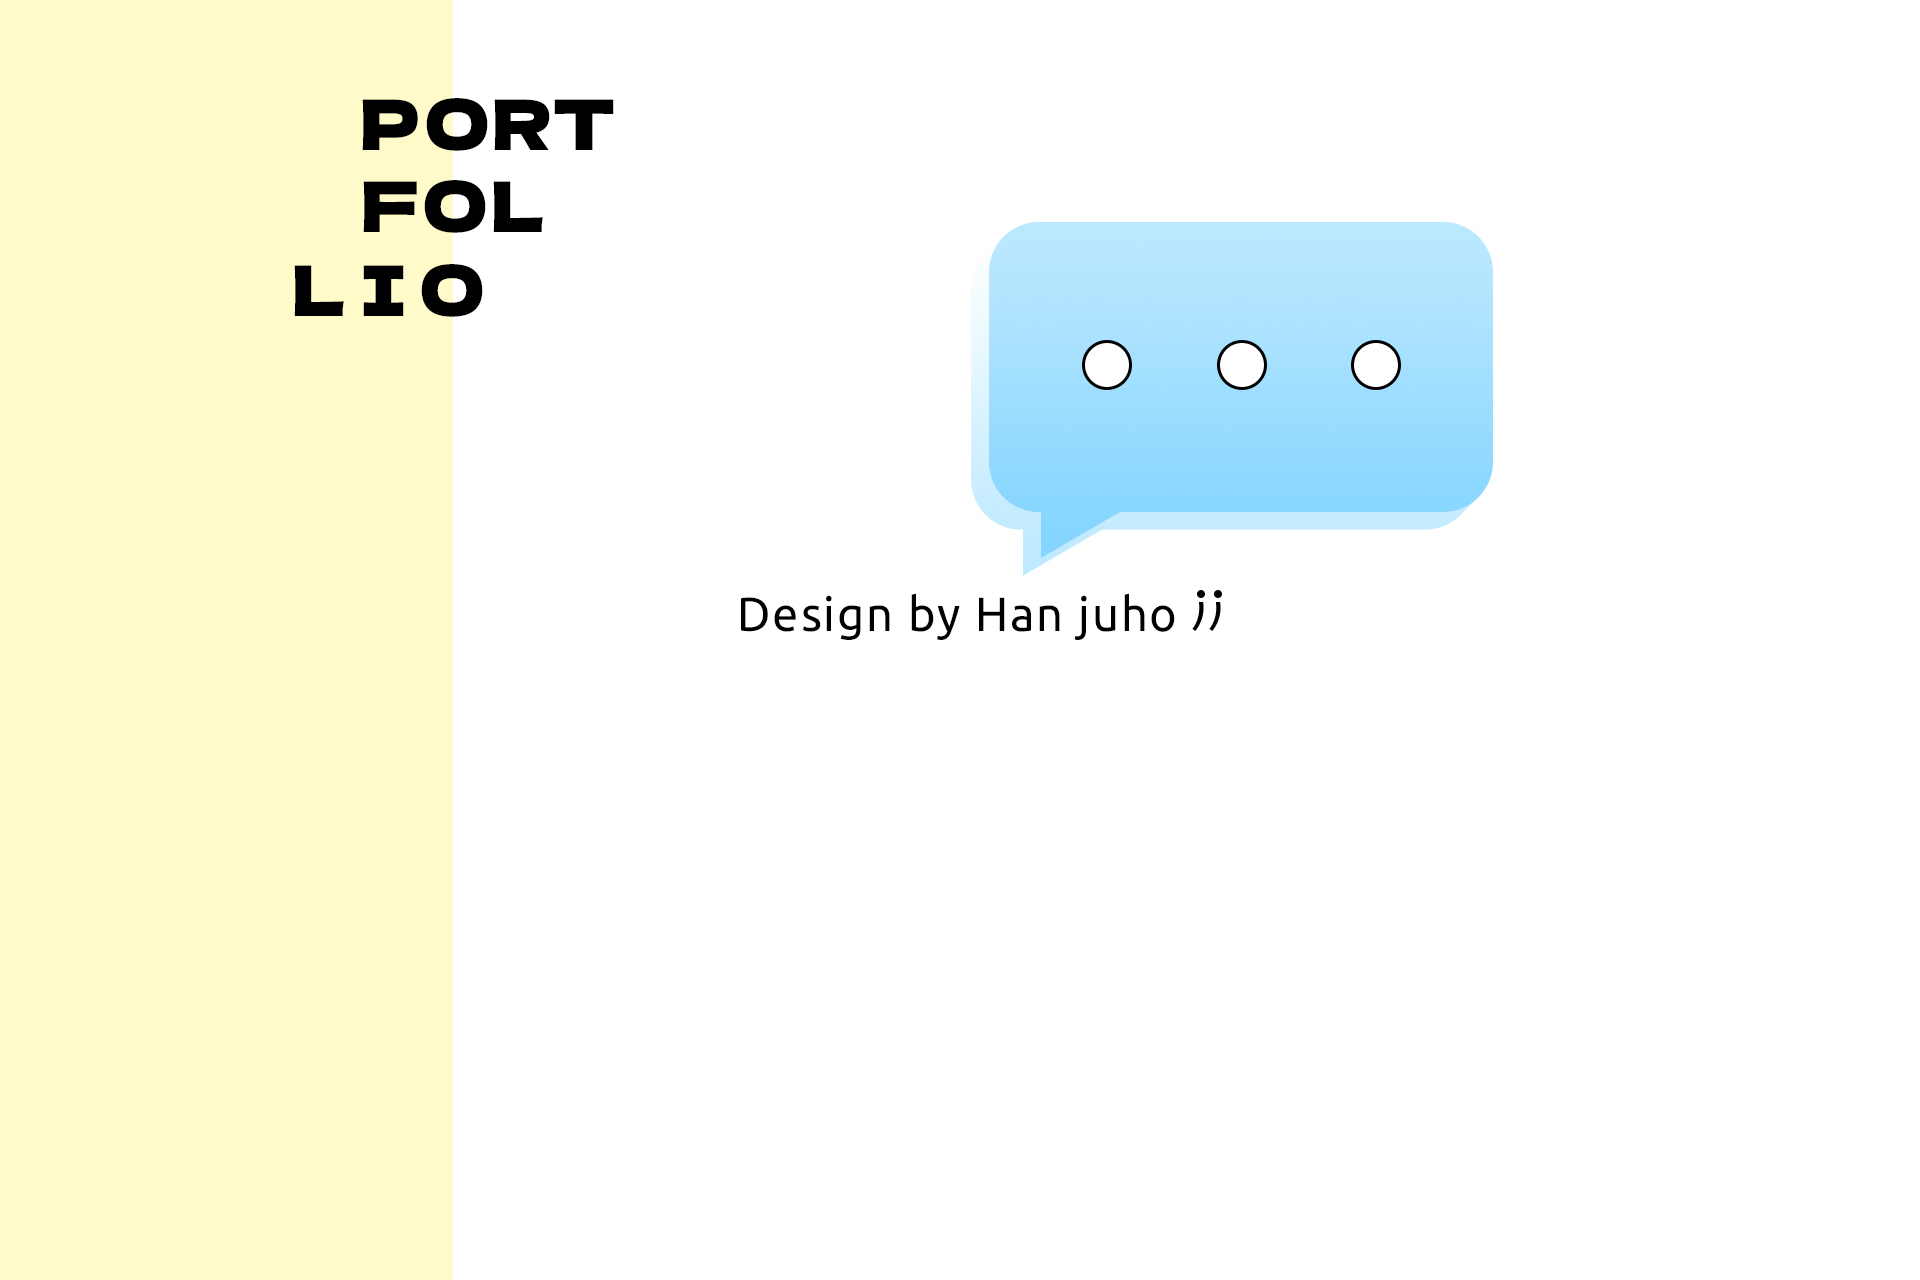
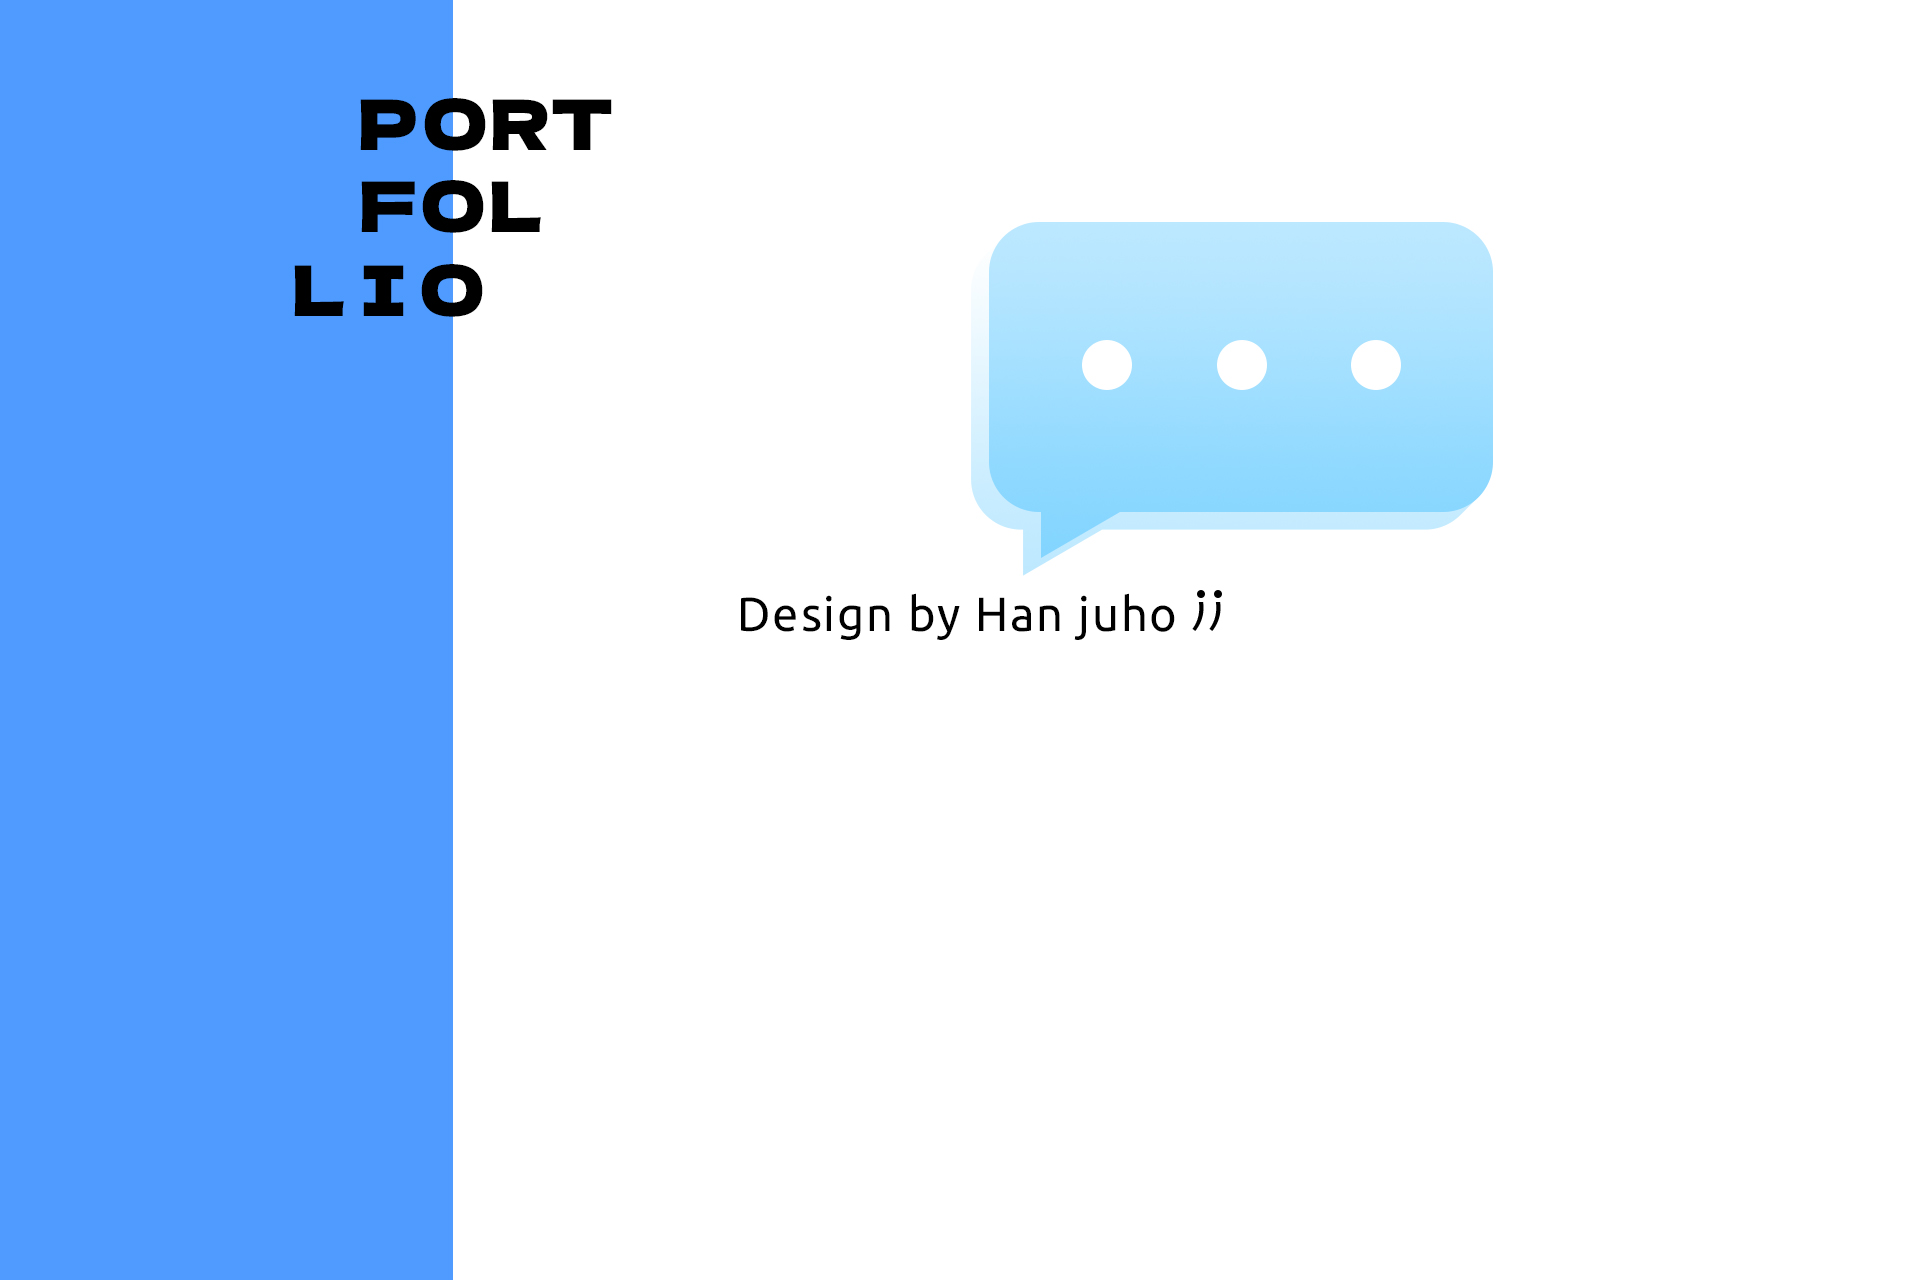
Add files via upload

Changed region(s): [[0.0, 0.0, 0.3125, 1.0], [0.5625, 0.25, 0.5938, 0.3125]]

diff --git a/index.html b/index.html
@@ -41,9 +41,10 @@
         <nav>
             <ul>
                 <li><a href="#about">About</a></li>
+                <li><a href="#projects">projects</a></li>
                 <li><a href="#experience">experience</a></li>
                 <li><a href="#skills">skills</a></li>
-                <li><a href="#projects">projects</a></li>
+                
             </ul>
         </nav>
     </header>
@@ -118,8 +119,7 @@
                             <nav class="categories">
                                 <ul class="portfolio_filter">
                                     <li><a href="" class="active" data-filter="*">All</a></li>
-                                    <li><a href="" data-filter=".Tium">brand1</a></li>
-                                    <li><a href="" data-filter=".Philos">brand2</a></li>
+                                    <li><a href="" data-filter=".Tium">brand</a></li>
                                     <li><a href="" data-filter=".graphics">Graphics</a></li>
                                     
                                 </ul>
@@ -146,12 +146,13 @@
                                             <div class="item_info">
 												<h3>SAND KING</h3>
 												<p class="mp1">샌드위치 브랜딩 디자인</p>
-												<p class="mp1"><a href="#">https://hanjuho1.github.io/sandking/</a></p>
+												
 												<div class="project_btn_box">
+                                                <a href="https://hanjuho1.github.io/sandking/" target="_blank" class="project_btn">Web</a>
+                                                <a href="guide/bi_guide.html" target="_blank" class="project_btn">BI&amp;BX Guide</a>
                                                 <a href="guide/web_guide.html" target="_blank" class="project_btn">Web Guide</a>
-												<a href="guide/bi_guide.html" target="_blank" class="project_btn">BI&amp;BX Guide</a>
                                                 <a href="https://xd.adobe.com/view/531fa18e-da6d-403b-a825-02a37b7f0d48-064c/screen/f204ed66-567e-4950-9c71-76b4b08bf1f9" target="_blank" class="project_btn">XD</a>
-												<a href="https://hanjuho1.github.io/sandking/" target="_blank" class="project_btn">Web</a>
+												
                                                 <a href="ebook/samples/magazine/slider.html" target="_blank" class="project_btn">E-book</a>
                                                 
 												</div>
@@ -248,6 +249,7 @@
             </div>
         </div>
     </div>
+</div>
     <!-- ./experience -->
 	<!-- skills -->
     <div class="section" id="skills">
@@ -260,12 +262,12 @@
 					<div class="skills-circle">
 						
 						<ul>
-							<li data-percent="70"><span class="text">Ps</span><span class="bar-circle-right"></span><span class="bar-circle-left"></span><span class="bar-circle-cover"></span><b></b></li>
-							<li data-percent="70"><span class="text">Ai</span><span class="bar-circle-right"></span><span class="bar-circle-left"></span><span class="bar-circle-cover"></span><b></b></li>
+							<li data-percent="80"><span class="text">Ps</span><span class="bar-circle-right"></span><span class="bar-circle-left"></span><span class="bar-circle-cover"></span><b></b></li>
+							<li data-percent="80"><span class="text">Ai</span><span class="bar-circle-right"></span><span class="bar-circle-left"></span><span class="bar-circle-cover"></span><b></b></li>
 							<li data-percent="70"><span class="text">Web</span><span class="bar-circle-right"></span><span class="bar-circle-left"></span><span class="bar-circle-cover"></span><b></b></li>
-							<li data-percent="60"><span class="text">Pr</span><span class="bar-circle-right"></span><span class="bar-circle-left"></span><span class="bar-circle-cover"></span><b></b></li>
-							<li data-percent="50"><span class="text">Ae</span><span class="bar-circle-right"></span><span class="bar-circle-left"></span><span class="bar-circle-cover"></span><b></b></li>
-                            <li data-percent="70"><span class="text">Xd</span><span class="bar-circle-right"></span><span class="bar-circle-left"></span><span class="bar-circle-cover"></span><b></b></li>
+							<li data-percent="70"><span class="text">Pr</span><span class="bar-circle-right"></span><span class="bar-circle-left"></span><span class="bar-circle-cover"></span><b></b></li>
+							<li data-percent="70"><span class="text">Ae</span><span class="bar-circle-right"></span><span class="bar-circle-left"></span><span class="bar-circle-cover"></span><b></b></li>
+                            <li data-percent="80"><span class="text">Xd</span><span class="bar-circle-right"></span><span class="bar-circle-left"></span><span class="bar-circle-cover"></span><b></b></li>
 							
 							
 						</ul>

diff --git a/css/style.css b/css/style.css
@@ -53,7 +53,7 @@ h1 {
     font-weight: 700;
     font-size: 80px;
     line-height: 70px;
-	color: #ffb3b0;
+	color: #15b0ff;
 }
 h3{
     font-family: 'NanumSquareRound';
@@ -443,7 +443,7 @@ a.active {
     background:#ffffff;
 }
 #about span{
-	color:#74b8b9;
+	color:#89d7ff;
 	font-weight:600;
     font-family: 'Ubuntu', sans-serif;
 }
@@ -471,7 +471,7 @@ a.active {
 .h-1{
 	padding:30px 0 10px;
 	font-weight:700;
-	color:#ffb3b0;
+	color:#15b0ff;
 	letter-spacing:5%;
     font-family: 'Ubuntu', sans-serif;
     font-size: 26px;
@@ -490,7 +490,10 @@ a.active {
 
 #experience {
     padding: 100px 0 40px;
-    background:#ffeeed;
+    background-image: url(/img/ex.jpg);
+    background-repeat: no-repeat;
+    background-position: center;
+
 }
 
 .experience-row {
@@ -546,11 +549,12 @@ a.active {
 .timeline-event:hover .timeline-event-icon {
     -webkit-transform: rotate(-45deg);
     transform: rotate(-45deg);
-    background-color: #ff5952;
+    background-color: #15b0ff;
+    transition: 1s;
 }
 
 .timeline-event:hover .timeline-event-thumbnail {
-    box-shadow: inset 40em 0 0 0 #ff5952;
+    box-shadow: inset 40em 0 0 0 #89d7ff;
 }
 
 .timeline-event-copy {
@@ -586,7 +590,7 @@ a.active {
     transition: transform 0.2s ease-in, -webkit-transform 0.2s ease-in;
     -webkit-transform: rotate(45deg);
     transform: rotate(45deg);
-    background-color: #ff5952;
+    background-color: white;
     outline: 10px solid #ffffff;
     display: block;
     margin: 0.5em 0.5em 0.5em -0.5em;
@@ -595,6 +599,7 @@ a.active {
     left: 2em;
     width: 1em;
     height: 1em;
+    border-radius: 50%;
 }
 
 .timeline-event-thumbnail {
@@ -607,8 +612,8 @@ a.active {
     color: white;
     font-size: 12px;
     font-weight: bold;
-    background-color: #a5a5a5;
-    box-shadow: inset 0 0 0 0em #ff5952;
+    background-color: #a1a1a1;
+    box-shadow: inset 0 0 0 0em #89d7ff;
     display: inline-block;
     margin-bottom: 1.2em;
     padding: 0.25em 1em 0.2em 1em;
@@ -650,7 +655,7 @@ a.active {
 }
 
 .skill-box > .skills-circle > ul > li > span {
-  color: #ff6a6a;
+  color: #15b0ff;
   font-size:35px;
   padding:1.5em;
 }
@@ -674,7 +679,7 @@ a.active {
   display: block;
   width: 100%;
   height: 100%;
-  background: rgb(255 106 106);/*bar 채워지는 color*/
+  background: #89d7ff;/*bar 채워지는 color*/
   clip: rect(0, 75px, 150px, 0);
 }
 .skill-box > .skills-circle > ul > li > span.bar-circle-left {
@@ -728,7 +733,7 @@ a.active {
 }
 
 .portfolio .categories-grid .categories ul li a.active {
-    background-color: #ff7e79;
+    background-color: #89d7ff;
     padding: 0px 20px;
     color: white;
     text-decoration: none;
@@ -745,6 +750,7 @@ a.active {
 .img-responsive{
 	width:100%;
     display: block;
+    border-radius: 30px;
 }
 
 .portfolio_item .portfolio_item_hover {
@@ -883,7 +889,7 @@ a.active {
 
 #contact {
     padding: 30px 0;
-    background: #ffeeed;
+    background: #89d8ff6e;
 }
 #contact p{
 	
@@ -1095,26 +1101,26 @@ fieldset {
 .portfolio_container .col-md-12{padding-left:0;
 	padding-right:0;}
 .item_info{
-	padding-top:50px;
+	padding-top:10px;
 }	
 .project_btn{
     display:inline-block;
 	padding:5px 20px;
-    border:2px solid #6cd5d6;
+    border:2px solid #15b0ff;
 	border-radius:30px;
 	color: rgb(20, 20, 20);
     font-family: 'NanumSquareRound';
     transition: 0.5s;
     font-size: 13px;
+    margin-bottom: 10px;
 }
 .project_btn:hover{
     color:#fff;
-	background:#6cd5d6;
+	background:#89d7ff;
 }
 .project_btn_box{
     text-align:left;
 padding-top:10px;
-width: 550px;
 }
 .clear{clear:both;}
 .portfolio_item{height:230px;}

diff --git a/js/skill_script.js b/js/skill_script.js
@@ -42,7 +42,7 @@
             run_duration -= 1000;
             _left.css({
               'clip': 'rect(0, 150px, 150px, 75px)',
-              'background': 'rgb(255 106 106)'
+              'background': "rgb(137 215 255)"
             });
             return _left.animate({
               circle_rotate: deg
